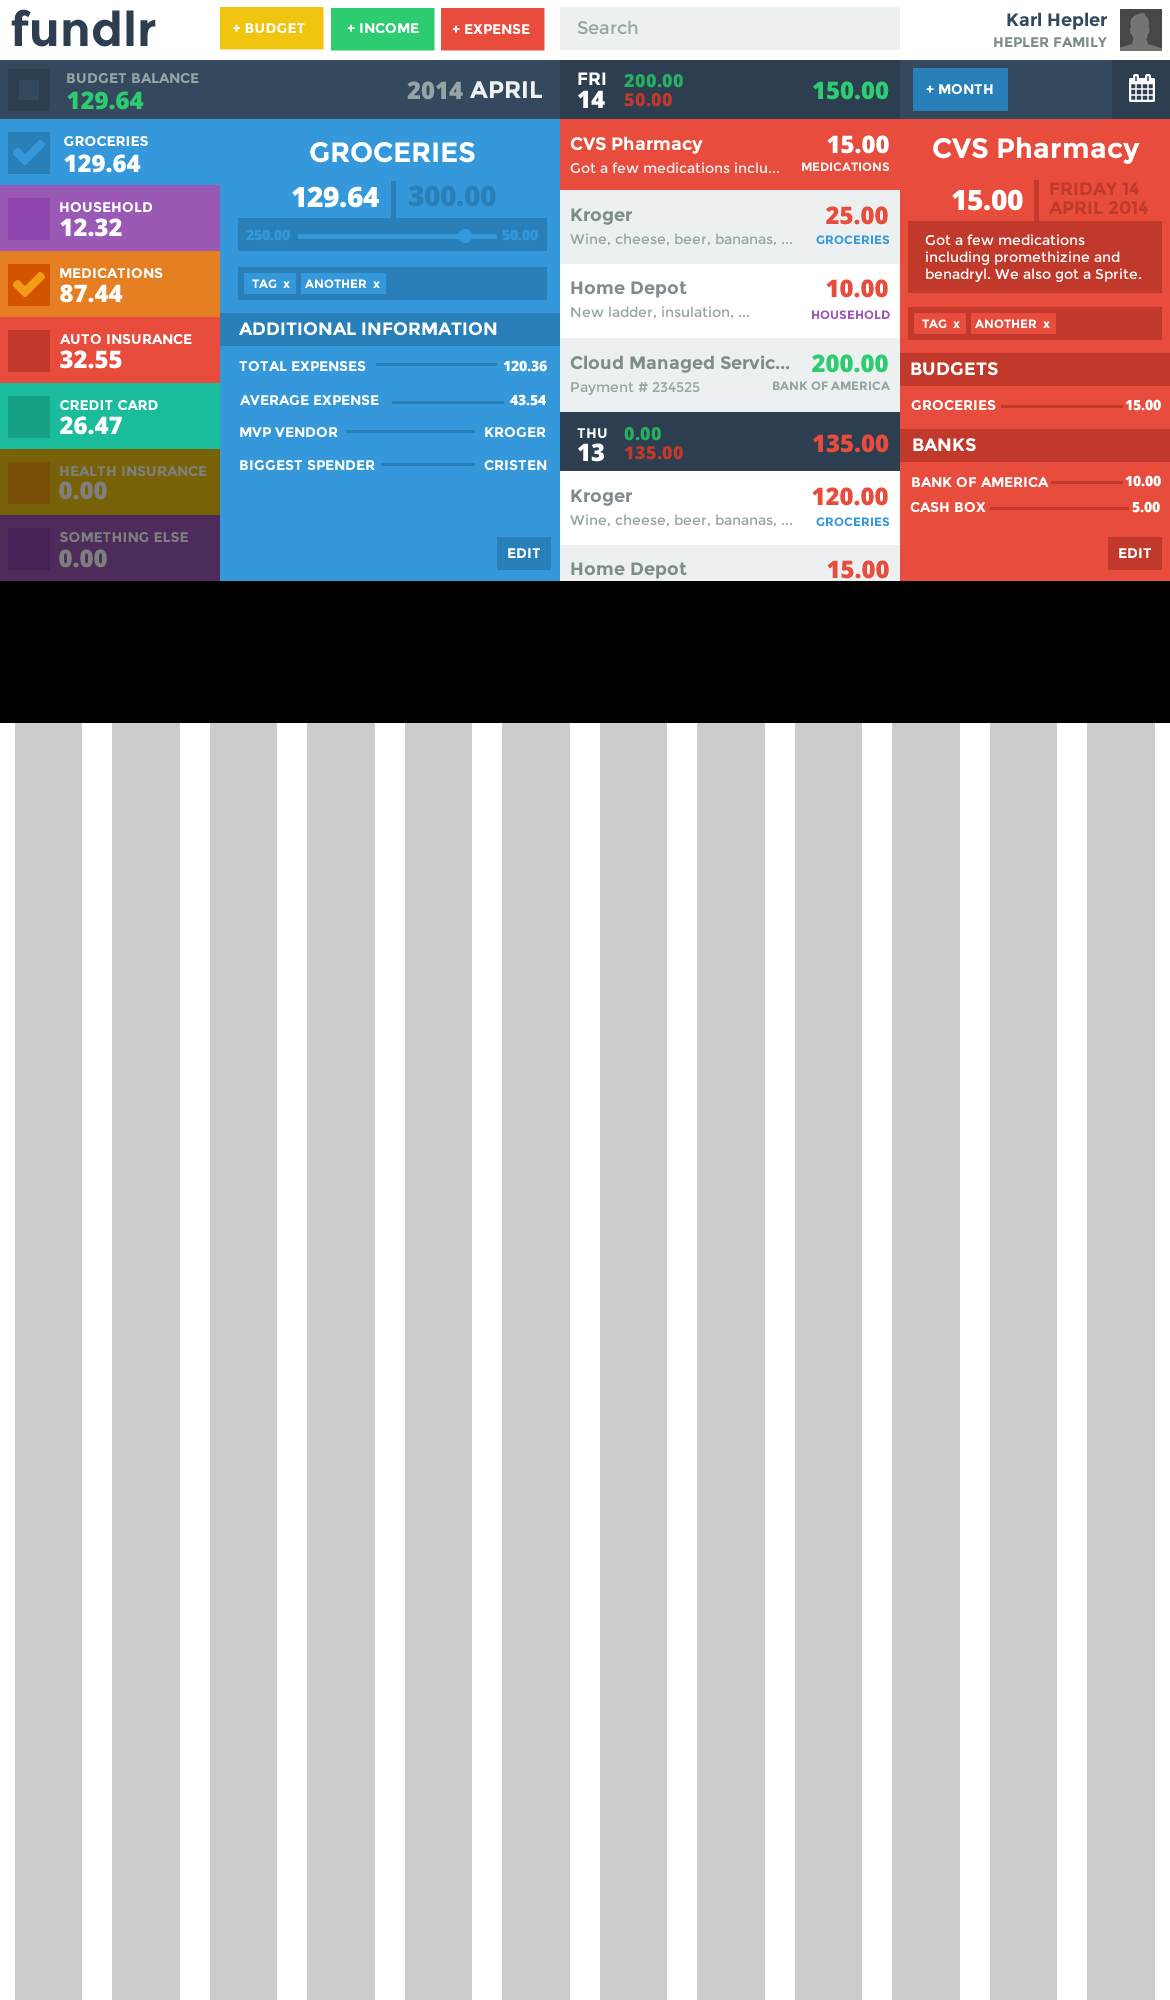
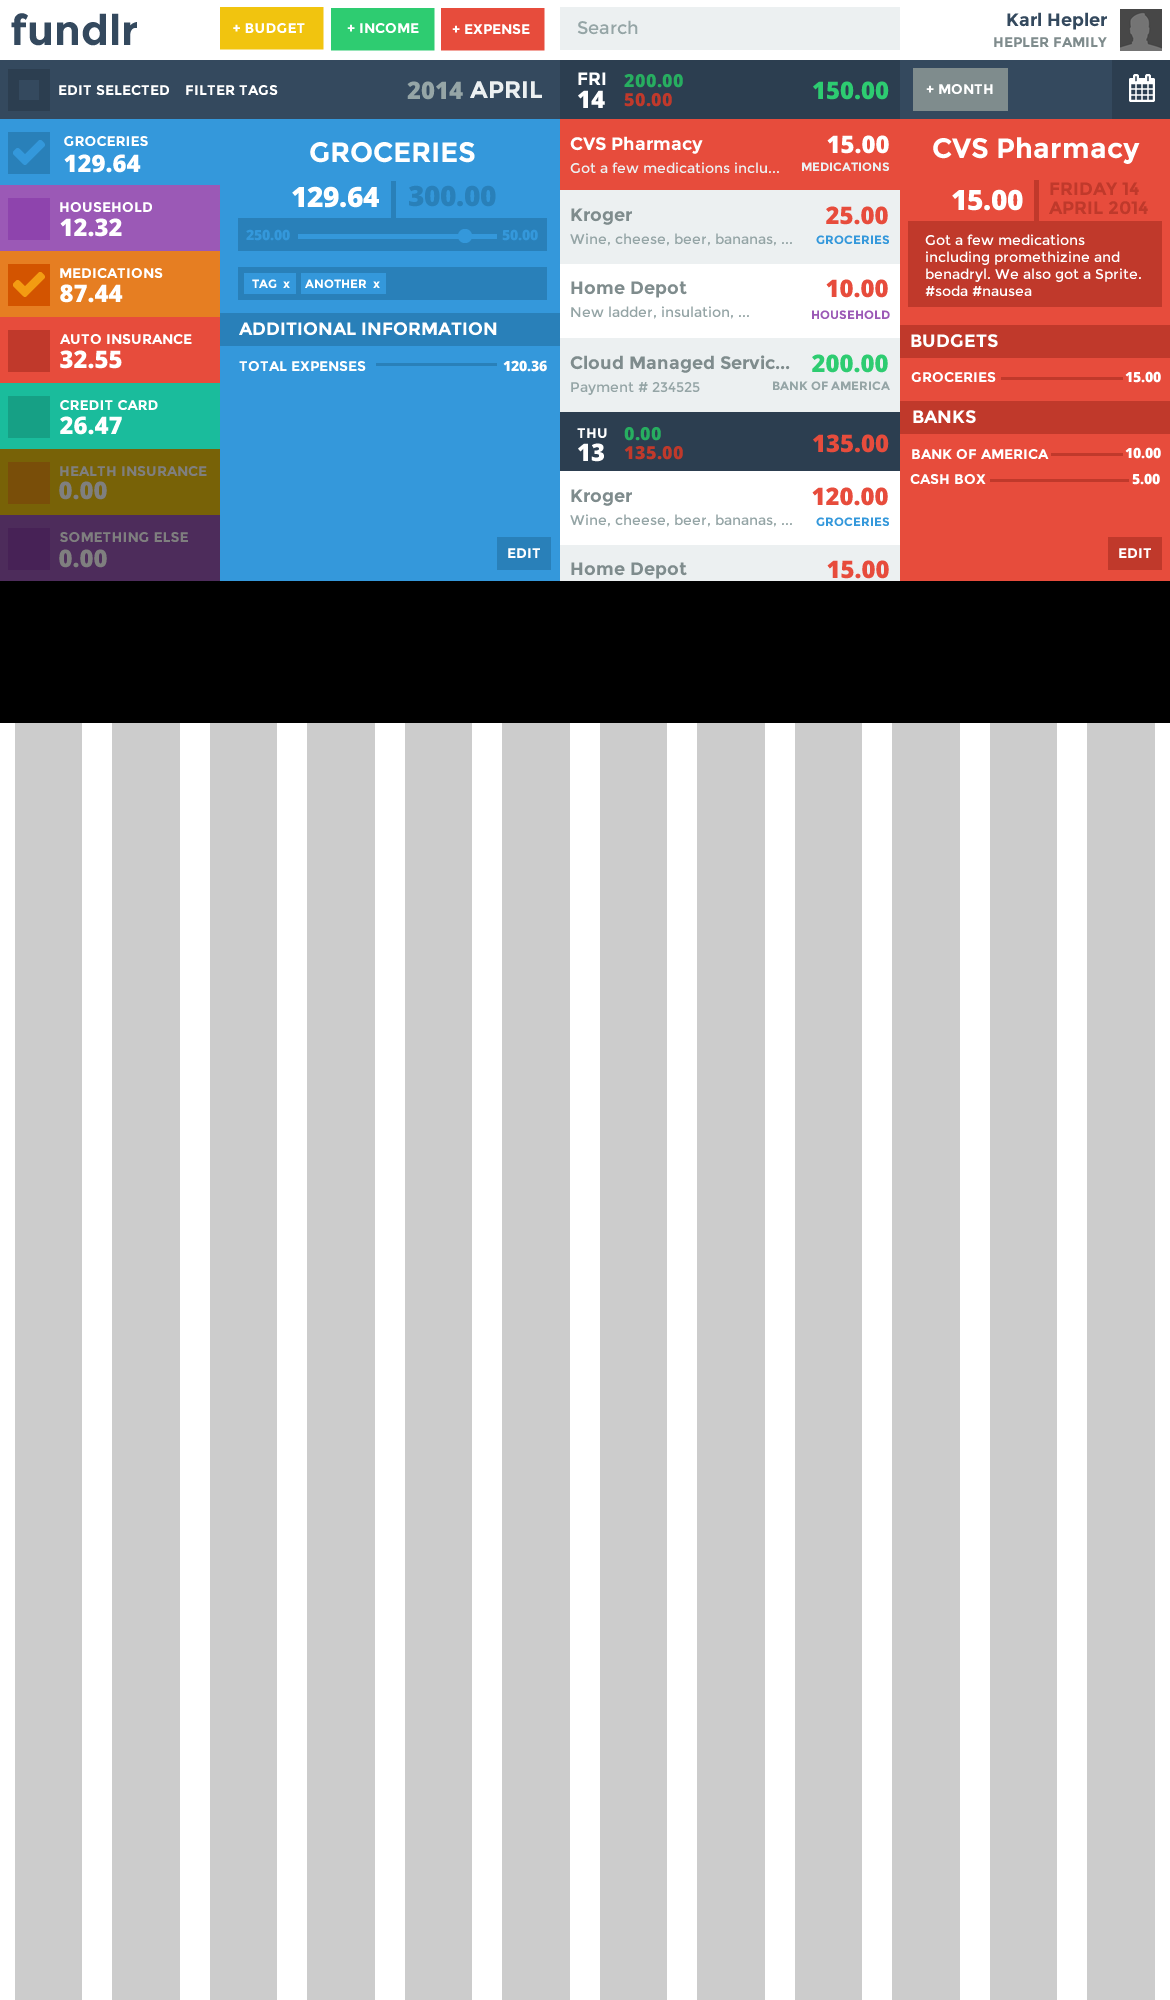
updated design and readme

diff --git a/readme.md b/readme.md
@@ -13,7 +13,34 @@ Design Ideas
 * The month and the year are clickable - once clicked, you can select a different one
 * As checkboxes on budgets are clicked, the transaction list filters
 
-* I need a way to show split transactions... this will make more sense once I have my head around entering a new transaction... start with the total FIRST and go from there
+* ~~I need a way to show split transactions... this will make more sense once I have my head around entering a new transaction... start with the total FIRST and go from there~~
+
+Now that I have revised the dashboard, I am coming to understand that transactions are independent of
+banks and budgets... kind of. One transaction can have many bank associations and many budget assocations,
+each of which are different. When you put in a transaction, you basically take your receipt and put in
+the total. From there, you can divy up what was spent where.
+
+~~The **credit cards** budget should be special... it should house all credit cards under one budget
+that is automatically placed at the bottom of all of the other budgets and *can* be moved, but with
+a warning. In the budget detail, it should list the credit cards, their balances, and their minimums.
+You should be able to create a transaction for each card with one click.~~
+
+~~As I'm writing this, I'm thinking that maybe all budgets should work in a similar way... maybe on the left
+budget list bar, instead of an actual budget, maybe it should be a budget category. No... the automobile
+category makes this idea fail. Gas is more important than groceries in some cases, but I could not imagine
+that all auto expenses, including preventative maintenance could be the same.~~
+
+I'm thinking of having fundlr **automatically** zero out the budget... so there shouldn't be a need
+for a budget balance or any kind of "safe to spend" thing. If you want to increase a budget amount,
+you need to decrease the funds from other budgets.
+
+Due dates on bills need to be taken into account as well. If a due date is coming up or is here
+and the bill budget doesn't have the funds, but budgets above it do, then it will recommend that you
+take money out of the other budgets to pay the bill. However, it will not force this.
+
+* Incomes and Expenses can be scheduled for the future and set to repeat
+
+* Budgets can be a part of sinking funds as well - this is set up in the + Budgets screen
 
 Design
 ===
